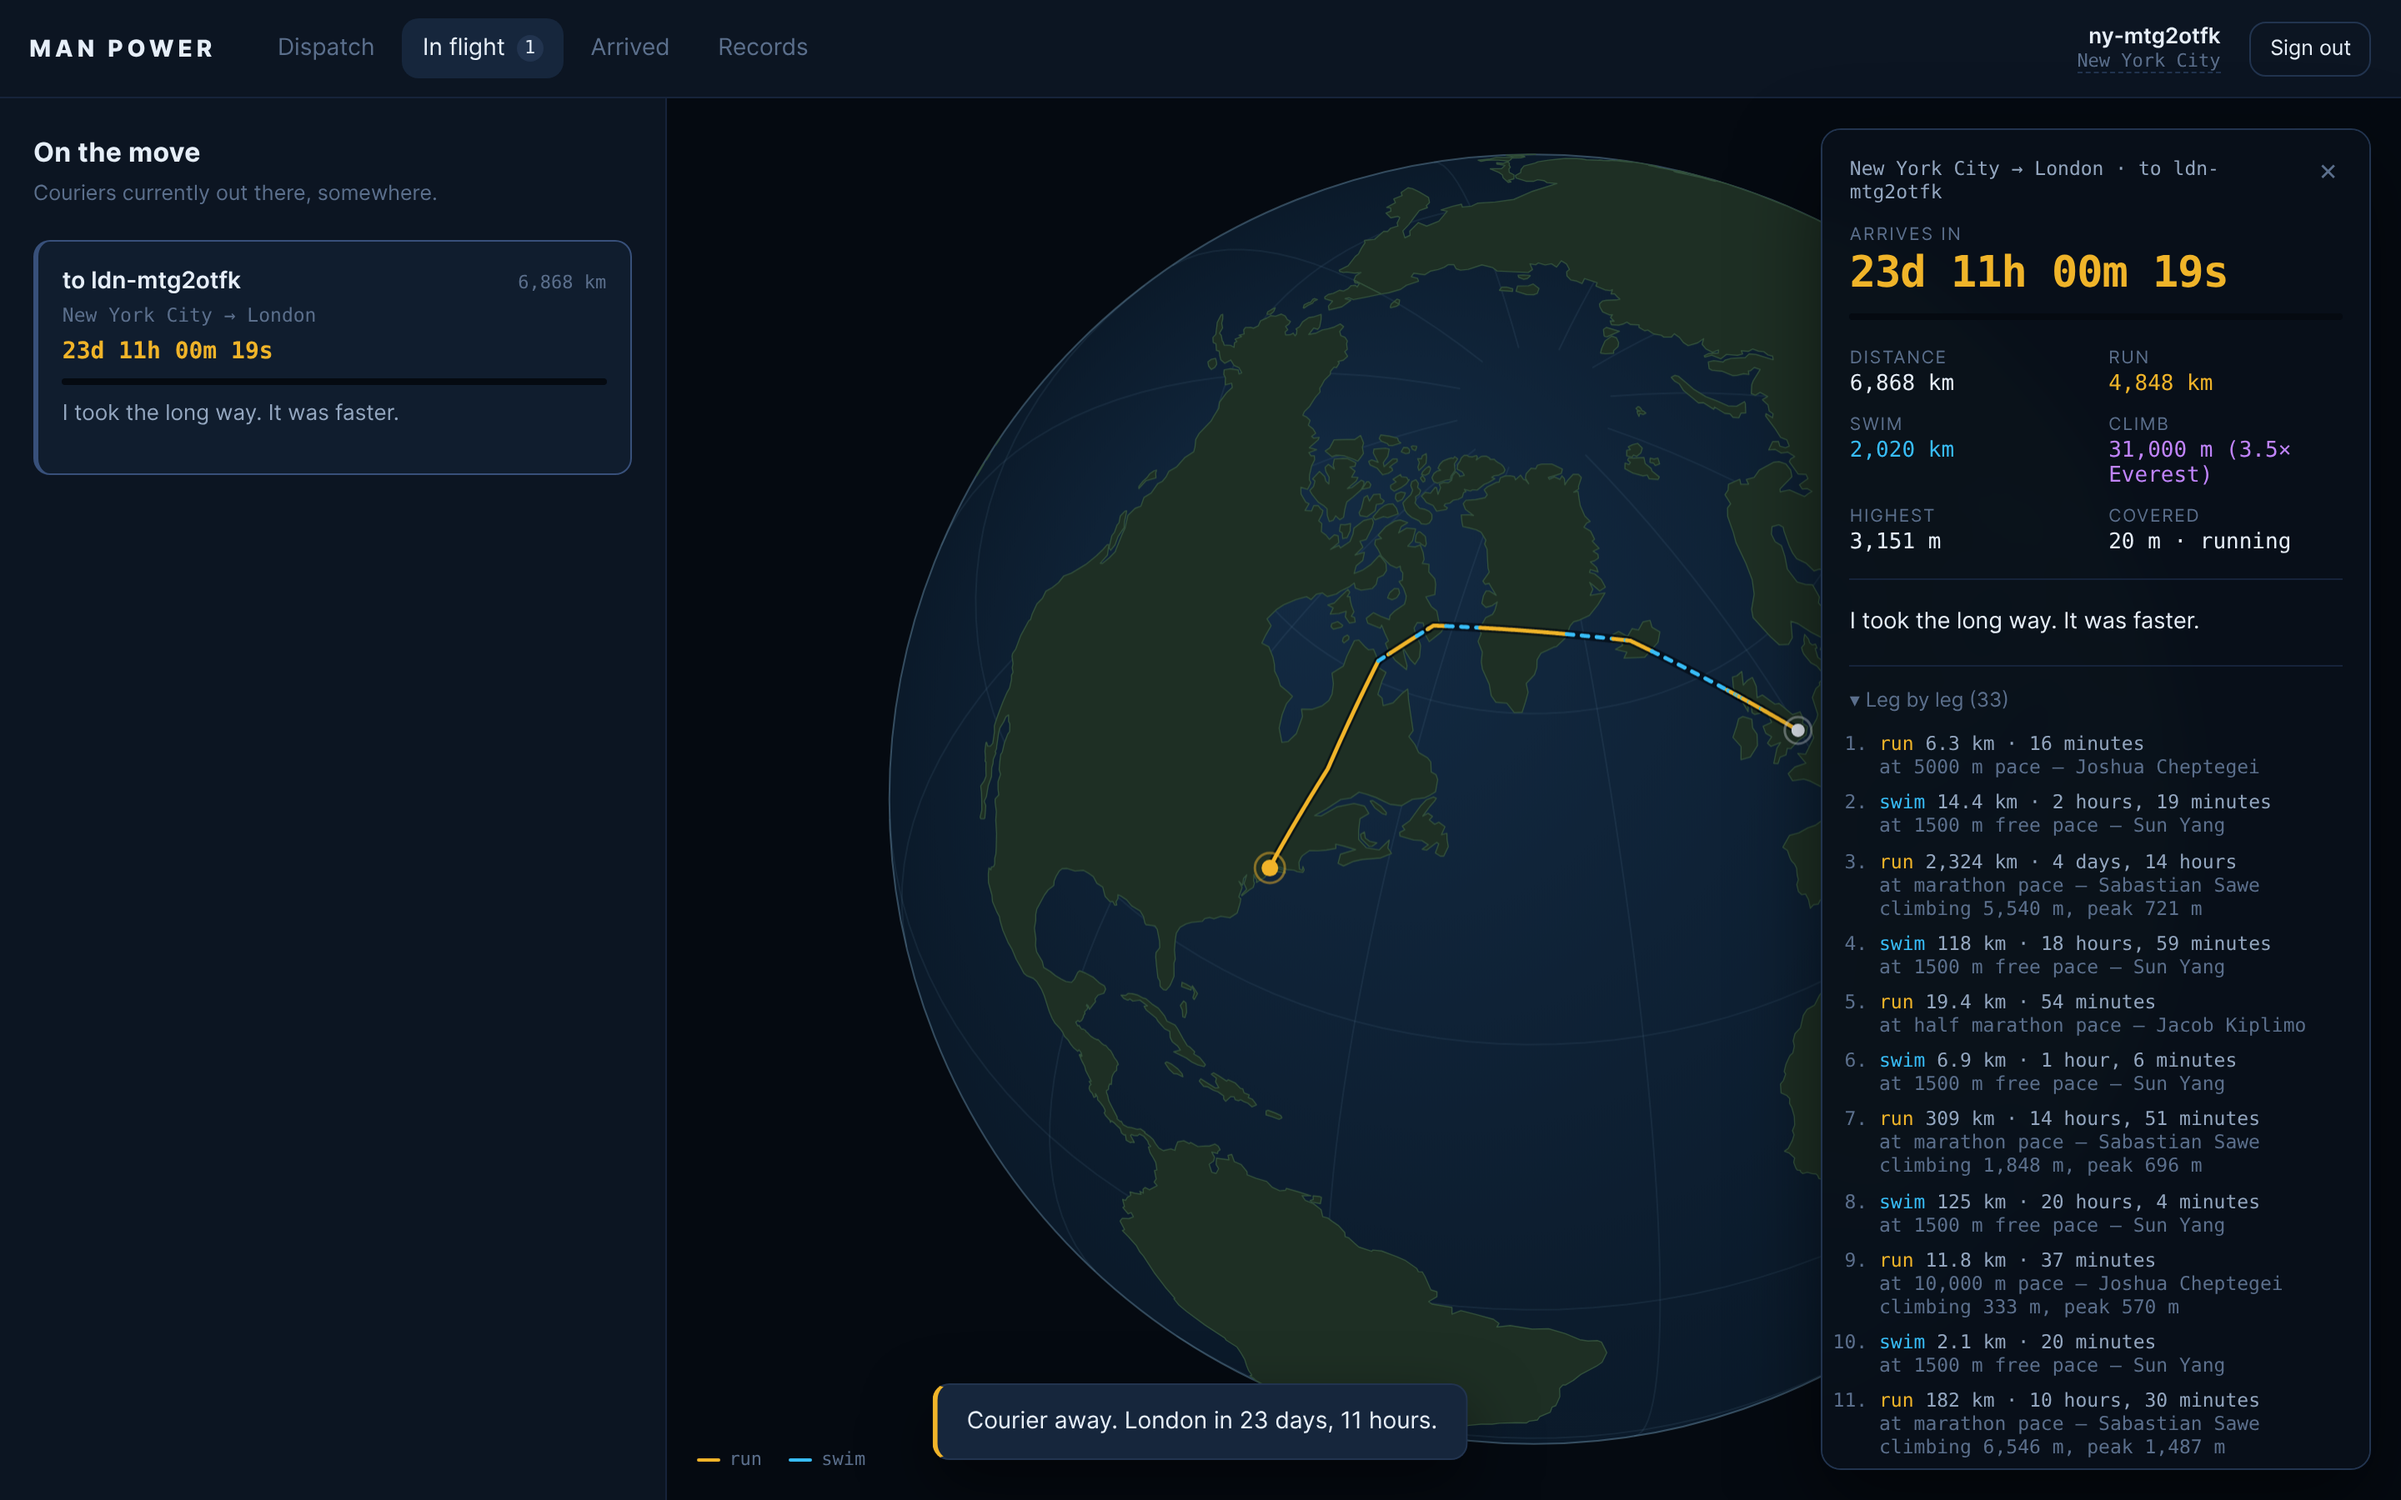
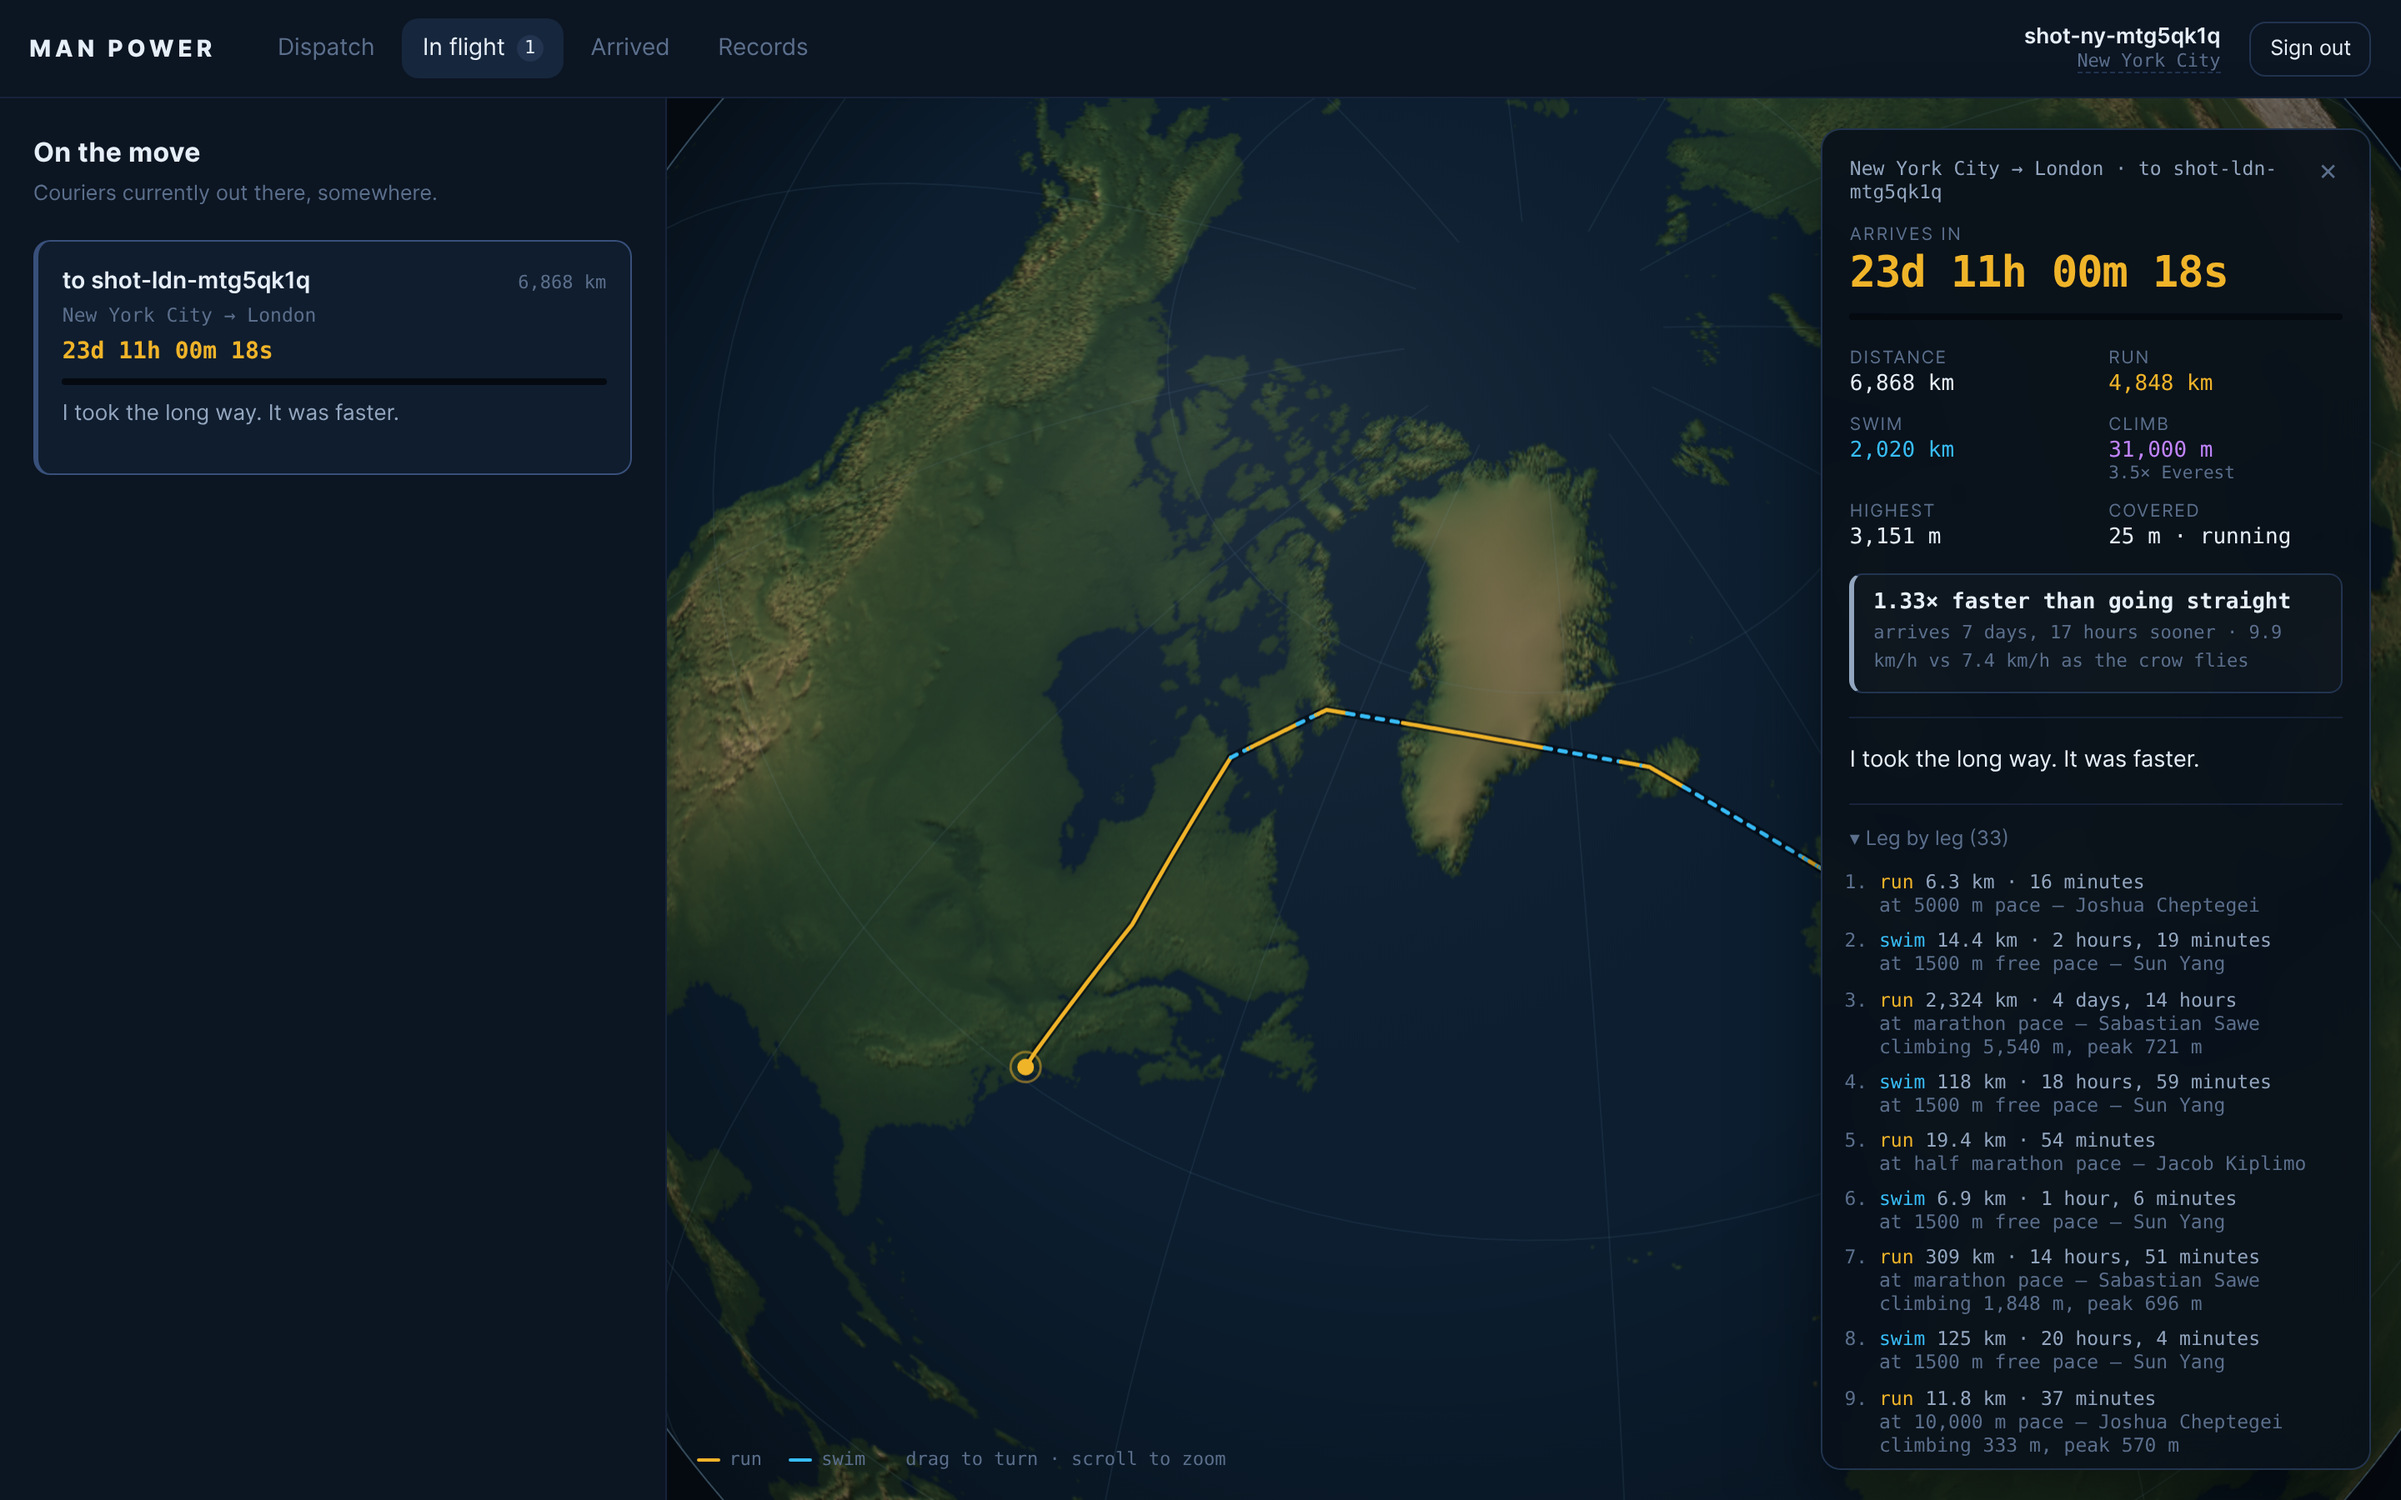
Update the screenshot to the topographic globe
The old one predated terrain shading. This shows the New York to London
route arcing through Labrador, across the Davis Strait and over the
Greenland ice sheet, with the elevation the router used to choose it
visible underneath.

diff --git a/docs/index.html b/docs/index.html
@@ -192,7 +192,7 @@ sudo deploy/install.sh       <span class="c"># restarts on failure, starts on bo
   </p>
 
   <figure class="shot">
-    <img src="./screenshot.png" alt="The Man Power app: a courier carrying a message from New York to London by way of Greenland, tracked on a globe." loading="lazy">
+    <img src="./screenshot.png" alt="The Man Power app: a courier carrying a message from New York to London by way of Greenland, tracked on a topographic globe." loading="lazy">
     <figcaption>
       New York to London — 23 days, 11 hours, across 33 legs. The courier goes by
       Baffin Island, Greenland and Iceland: 23% further than the direct line, and

diff --git a/README.md b/README.md
@@ -12,7 +12,7 @@ it.
 **→ [Time a journey yourself](https://danielluzhu.github.io/man-power/)** — the
 project site runs the real routing engine in your browser, no server involved.
 
-![New York to London by way of Greenland — 23 days, 11 hours, across 33 legs](docs/screenshot.png)
+![New York to London by way of Greenland — 23 days, 11 hours, across 33 legs, on a topographic globe](docs/screenshot.png)
 
 ---
 
